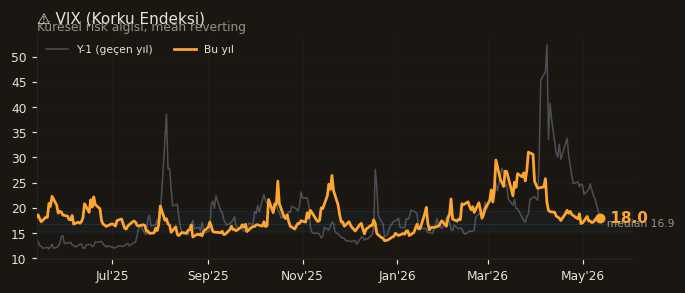
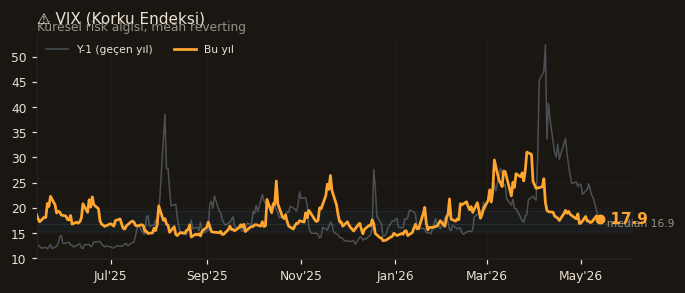
Daily pulse 2026-05-14

diff --git a/reports/pulse/2026-05-14/index.html b/reports/pulse/2026-05-14/index.html
@@ -490,19 +490,14 @@ footer.pf-foot b, footer.pf-foot strong { color: var(--text); font-weight: 600; 
   <div style="display:flex;align-items:center;gap:10px">
     <span style="font-size:22px">🟡</span>
     <div>
-      <div style="font-size:18px;font-weight:600;color:#e5ebf2">Karışık</div>
-      <div style="font-size:13px;color:#aab">Çelişkili sinyaller</div>
+      <div style="font-size:18px;font-weight:600;color:#e5ebf2">Sakin</div>
+      <div style="font-size:13px;color:#aab">VIX 17.9 — düşük volatilite</div>
     </div>
   </div>
-  <div style="margin-top:10px;display:flex;flex-wrap:wrap;gap:6px"><span style="background:rgba(255,255,255,0.06);padding:3px 10px;border-radius:999px;font-size:12px;color:#aab">BIST: <strong style="color:#e5ebf2">14,598</strong></span><span style="background:rgba(255,255,255,0.06);padding:3px 10px;border-radius:999px;font-size:12px;color:#aab">USD/TRY: <strong style="color:#e5ebf2">45.4002</strong></span><span style="background:rgba(255,255,255,0.06);padding:3px 10px;border-radius:999px;font-size:12px;color:#aab">DXY: <strong style="color:#e5ebf2">98.48</strong></span><span style="background:rgba(255,255,255,0.06);padding:3px 10px;border-radius:999px;font-size:12px;color:#aab">ABD: <strong style="color:#e5ebf2">4.46</strong></span></div>
+  <div style="margin-top:10px;display:flex;flex-wrap:wrap;gap:6px"><span style="background:rgba(255,255,255,0.06);padding:3px 10px;border-radius:999px;font-size:12px;color:#aab">BIST: <strong style="color:#e5ebf2">14,598</strong></span><span style="background:rgba(255,255,255,0.06);padding:3px 10px;border-radius:999px;font-size:12px;color:#aab">USD/TRY: <strong style="color:#e5ebf2">45.4002</strong></span><span style="background:rgba(255,255,255,0.06);padding:3px 10px;border-radius:999px;font-size:12px;color:#aab">DXY: <strong style="color:#e5ebf2">98.48</strong></span><span style="background:rgba(255,255,255,0.06);padding:3px 10px;border-radius:999px;font-size:12px;color:#aab">ABD: <strong style="color:#e5ebf2">4.46</strong></span><span style="background:rgba(255,255,255,0.06);padding:3px 10px;border-radius:999px;font-size:12px;color:#aab">VIX: <strong style="color:#e5ebf2">17.9</strong></span></div>
 </div>
 </div>
-  <div style="margin-bottom:18px">
-<div class="card" style="border-left:3px solid #fbbf24; background:#2a2410">
-  <h3 style="margin-top:0;color:#fbbf24">⚡ Geçen Sayıdan Bu Yana Değişenler</h3>
-  <ul style="margin:0;padding-left:18px;line-height:1.8"><li>Genel rejim: &#x27;Sakin&#x27; → &#x27;Karışık&#x27;</li></ul>
-</div>
-</div>
+  
 
   <div style="display:grid;grid-template-columns:repeat(auto-fit,minmax(420px,1fr));gap:14px;margin-top:14px">
 <div class="card">
@@ -551,6 +546,18 @@ footer.pf-foot b, footer.pf-foot strong { color: var(--text); font-weight: 600; 
   <div style="margin:8px 0 4px"><span style="display:inline-flex;align-items:center;gap:4px;margin-right:10px;background:var(--panel-2);padding:2px 8px;border-radius:999px;font-size:11px"><span class="muted">Günlük:</span> <span class="pos">+0.90%</span></span><span style="display:inline-flex;align-items:center;gap:4px;margin-right:10px;background:var(--panel-2);padding:2px 8px;border-radius:999px;font-size:11px"><span class="muted">5g:</span> <span class="pos">+0.68%</span></span><span style="display:inline-flex;align-items:center;gap:4px;margin-right:10px;background:var(--panel-2);padding:2px 8px;border-radius:999px;font-size:11px"><span class="muted">30g:</span> <span class="pos">+3.72%</span></span><span style="display:inline-flex;align-items:center;gap:4px;margin-right:10px;background:var(--panel-2);padding:2px 8px;border-radius:999px;font-size:11px"><span class="muted">YTD:</span> <span class="pos">+6.44%</span></span></div>
   <img src="us10y.png" alt="📈 ABD 10Y Tahvil Getirisi" style="max-width:100%;height:auto;border-radius:6px;background:#1a2029;margin-top:8px" />
 </div>
+
+
+<div class="card">
+  <div style="display:flex;justify-content:space-between;align-items:baseline;gap:12px;flex-wrap:wrap">
+    <h3 style="margin:0;font-size:15px;color:var(--text);text-transform:none;letter-spacing:0;font-weight:600">
+      ⚠ VIX (Korku Endeksi)
+    </h3>
+    <div style="font-size:18px;font-weight:700;color:var(--accent)">17.9</div>
+  </div>
+  <div style="margin:8px 0 4px"><span style="display:inline-flex;align-items:center;gap:4px;margin-right:10px;background:var(--panel-2);padding:2px 8px;border-radius:999px;font-size:11px"><span class="muted">Günlük:</span> <span class="neg">-0.67%</span></span><span style="display:inline-flex;align-items:center;gap:4px;margin-right:10px;background:var(--panel-2);padding:2px 8px;border-radius:999px;font-size:11px"><span class="muted">5g:</span> <span class="pos">+2.76%</span></span><span style="display:inline-flex;align-items:center;gap:4px;margin-right:10px;background:var(--panel-2);padding:2px 8px;border-radius:999px;font-size:11px"><span class="muted">30g:</span> <span class="neg">-2.67%</span></span><span style="display:inline-flex;align-items:center;gap:4px;margin-right:10px;background:var(--panel-2);padding:2px 8px;border-radius:999px;font-size:11px"><span class="muted">YTD:</span> <span class="pos">+23.16%</span></span></div>
+  <img src="vix.png" alt="⚠ VIX (Korku Endeksi)" style="max-width:100%;height:auto;border-radius:6px;background:#1a2029;margin-top:8px" />
+</div>
 </div>
 
   <div class="panel" style="margin-top:18px">
@@ -560,7 +567,9 @@ footer.pf-foot b, footer.pf-foot strong { color: var(--text); font-weight: 600; 
     </div>
     <div class="panel-body" style="padding:20px">
       <div style="font-size:10px;letter-spacing:.14em;color:var(--accent);text-transform:uppercase;font-weight:700;margin-bottom:8px">▸ VERİ ÜZERİNDE SENTEZ</div>
-      <p style="font-size:13px;color:var(--text-dim);line-height:1.7">Günaydın arkadaşlar. Piyasa nabzına baktığımızda, DXY&#x27;nin 98.48 seviyesinde yatay seyri ve ABD 10 yıllık tahvil getirisinin %4.46 ile hafif yukarı yönlü hareketi, küresel risk iştahında belirgin bir değişim olmadığını gösteriyor. Yurt içinde ise BIST 100&#x27;ün son 30 günde %3.73 artışla 14,598 seviyesine ulaşması, USD/TRY&#x27;nin ise %1.56 artışla 45.4002&#x27;ye yükselmesi, küresel hikayeden bir miktar ayrışma sinyali veriyor. Özellikle BIST 100&#x27;deki güçlü performans, doların globalde yatay seyrine rağmen Türk Lirası&#x27;ndaki değer kaybının bir kısmını absorbe ettiğini gösteriyor, bu da yerel dinamiklerin ön planda olduğunu işaret ediyor.</p>
+      <p style="font-size:13px;color:var(--text-dim);line-height:1.7">Günaydın arkadaşlar. Piyasa nabzına baktığımızda, DXY&#x27;nin 98.48 seviyesinde yatay seyri ve ABD 10 yıllık tahvil getirilerinin %4.46 ile yükselişini sürdürmesi, küresel çapta doların gücünü koruduğuna ve risk iştahının temkinli olduğuna işaret ediyor. VIX&#x27;in 17.9 seviyesinde, 30 günlük düşüşüne rağmen YTD bazında %23.16 artışla yüksek kalması da bu temkinli duruşu destekliyor.
+
+Yerel piyasamızda ise BIST 100, 14,598 puanla YTD %26.96 gibi güçlü bir artış sergilerken, USD/TRY 45.4002 seviyesinde YTD %5.60 ile daha ılımlı bir yükseliş gösteriyor. Bu durum, BIST 100&#x27;deki pozitif ayrışmanın devam ettiğini ve yerel varlıklara olan ilginin sürdüğünü gösteriyor. Küresel risk algısındaki temkinli duruşa rağmen BIST 100&#x27;deki bu güçlü performans, pozitif bir uyumsuzluk olarak dikkat çekiyor.</p>
       <p style="margin-top:12px;font-size:11px;color:var(--muted);border-top:1px dashed var(--border);padding-top:10px">
         ⚠ Bu metin yapay zeka ile üretilmiş otomatik bir özettir. Editör değerlendirmesinden geçmez.
         Yatırım tavsiyesi değildir.
@@ -573,7 +582,7 @@ footer.pf-foot b, footer.pf-foot strong { color: var(--text); font-weight: 600; 
 <footer class="pf-foot">
   <div>
     <div style="color:var(--text);font-weight:600;margin-bottom:4px;letter-spacing:.1em">KALİBRE · MARKETS</div>
-    <div>v2026.05 · son güncelleme 2026-05-14 17:20 TR</div>
+    <div>v2026.05 · son güncelleme 2026-05-14 17:26 TR</div>
     <div style="margin-top:6px;color:var(--muted)">Veriler: Yahoo Finance (gecikmeli) · TCMB EVDS · FRED · Dünya Bankası</div>
   </div>
   <div style="display:flex;gap:18px;flex-wrap:wrap">
@@ -695,7 +704,7 @@ body { top:0 !important; }
 })();
 </script>
 
-<div class="share-widget" id="share-0e36be3a" style="display:block;margin:18px 0;padding:14px 16px;background:rgba(255,166,48,.04);border:1px solid var(--border-2);border-left:3px solid var(--accent)">
+<div class="share-widget" id="share-0223c81e" style="display:block;margin:18px 0;padding:14px 16px;background:rgba(255,166,48,.04);border:1px solid var(--border-2);border-left:3px solid var(--accent)">
   <div style="display:flex;align-items:flex-start;gap:14px;flex-wrap:wrap">
     <div style="flex:1;min-width:200px">
       <div style="font-size:10px;letter-spacing:.16em;color:var(--accent);text-transform:uppercase;font-weight:700;margin-bottom:6px">▸ Paylaş</div>
@@ -709,7 +718,7 @@ body { top:0 !important; }
 
   <div style="display:flex;gap:8px;margin-top:12px;flex-wrap:wrap">
     <button type="button"
-      onclick="window.__kmShare('share-0e36be3a', {title:'📊 Günlük Nabız',text:'Günlük Nabız günlük bülten: temel göstergeler, dönemsel değişim, forecast bandı, Türkçe analist yorumu. Yatırım tavsiyesi değildir.',url:'https://kalibremarkets.com/reports/pulse/2026-05-14/',img:'https://kalibremarkets.com/reports/pulse/2026-05-14/story.png',filename:'story.png'})"
+      onclick="window.__kmShare('share-0223c81e', {title:'📊 Günlük Nabız',text:'Günlük Nabız günlük bülten: temel göstergeler, dönemsel değişim, forecast bandı, Türkçe analist yorumu. Yatırım tavsiyesi değildir.',url:'https://kalibremarkets.com/reports/pulse/2026-05-14/',img:'https://kalibremarkets.com/reports/pulse/2026-05-14/story.png',filename:'story.png'})"
       class="btn btn-primary" style="font-size:12px;padding:8px 14px">📤 Paylaş</button>
 
     <a class="btn" href="https://www.facebook.com/sharer/sharer.php?u=https%3A%2F%2Fkalibremarkets.com%2Freports%2Fpulse%2F2026-05-14%2F" target="_blank" rel="noopener" style="font-size:12px;padding:8px 12px">Facebook</a>
